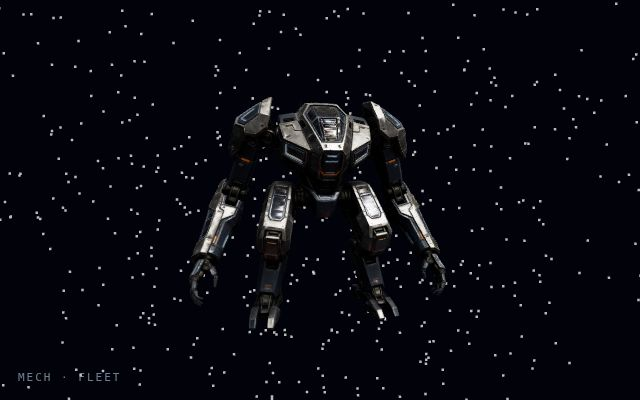
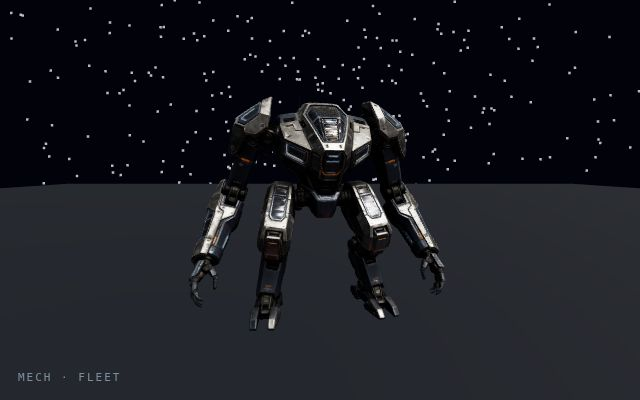
Put mech on flat ground surface

diff --git a/orbital-shipyard/mech.html b/orbital-shipyard/mech.html
@@ -107,27 +107,23 @@ const ambient = new THREE.AmbientLight(0xffffff, 1.4); scene.add(ambient);
 const sun = new THREE.DirectionalLight(0xfff2e0, 2.4); sun.position.set(3000, 8000, 2000); scene.add(sun);
 const marsBounce = new THREE.DirectionalLight(0x8a4a30, 0.7); marsBounce.position.set(0,-1000,0); scene.add(marsBounce);
 
-// ---------------- Mars (lightweight textured sphere) ----------------
+// ---------------- Ground (flat surface) ----------------
 {
-  const texLoader = new THREE.TextureLoader();
-  const diff = texLoader.load('./assets/characters/mars/mars_diff.jpg');
-  const norm = texLoader.load('./assets/characters/mars/mars_norm.jpg');
-  const geo = new THREE.SphereGeometry(4000, 128, 96);
-  const mat = new THREE.MeshStandardMaterial({ color:0xffffff, roughness:0.95, metalness:0.0, map:diff, normalMap:norm, normalScale:new THREE.Vector2(0.6,0.6) });
-  const mars = new THREE.Mesh(geo, mat);
-  mars.position.set(0, -6000, 0);
-  scene.add(mars);
+  const geo = new THREE.PlaneGeometry(40, 40, 1, 1);
+  const mat = new THREE.MeshStandardMaterial({ color: 0x2a303a, roughness: 0.85, metalness: 0.25 });
+  const ground = new THREE.Mesh(geo, mat);
+  ground.rotation.x = -Math.PI / 2;   // lay flat, facing up
+  ground.position.y = -1.02;          // just under the mech's feet
+  scene.add(ground);
 }
 
-// ---------------- Hi3D Segmented Station ----------------
+// ---------------- Mech ----------------
 const station = new THREE.Group();
 scene.add(station);
 station.position.set(0, 0, 0);
 
-// normalized model: long axis = Z (1.0), width X (0.32), depth Y (0.47) — glTF Y-up
 const SCALE = 2.2;
 station.scale.setScalar(SCALE);
-// lay the long axis (model Z) horizontal: rotate so +Z -> +X
 // upright — no rotation
 
 const loader = new GLTFLoader();
